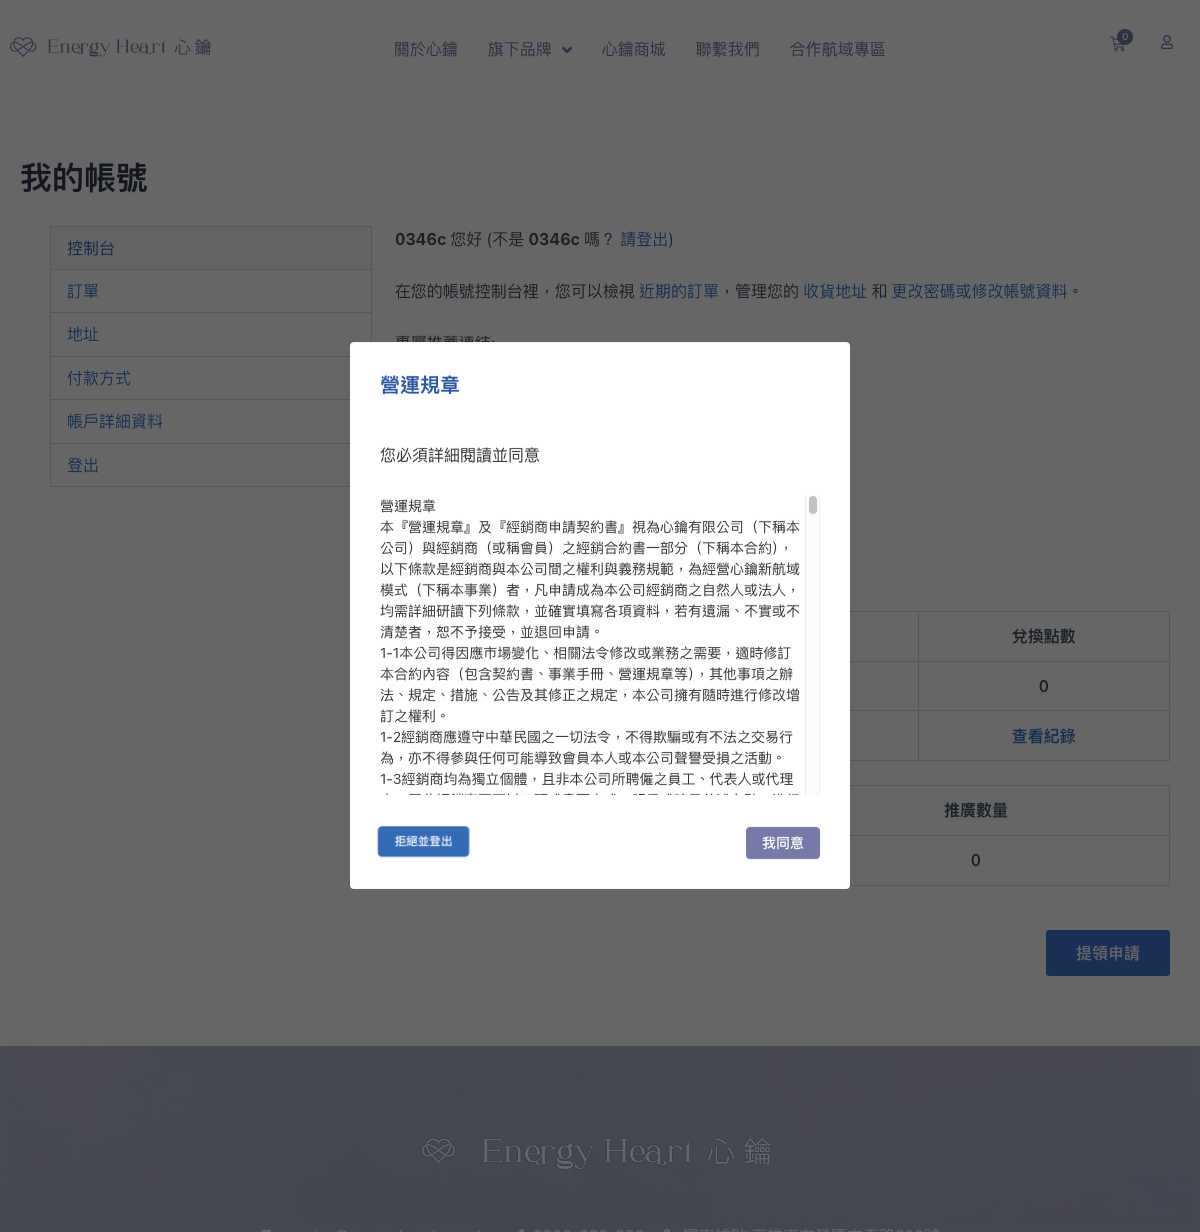
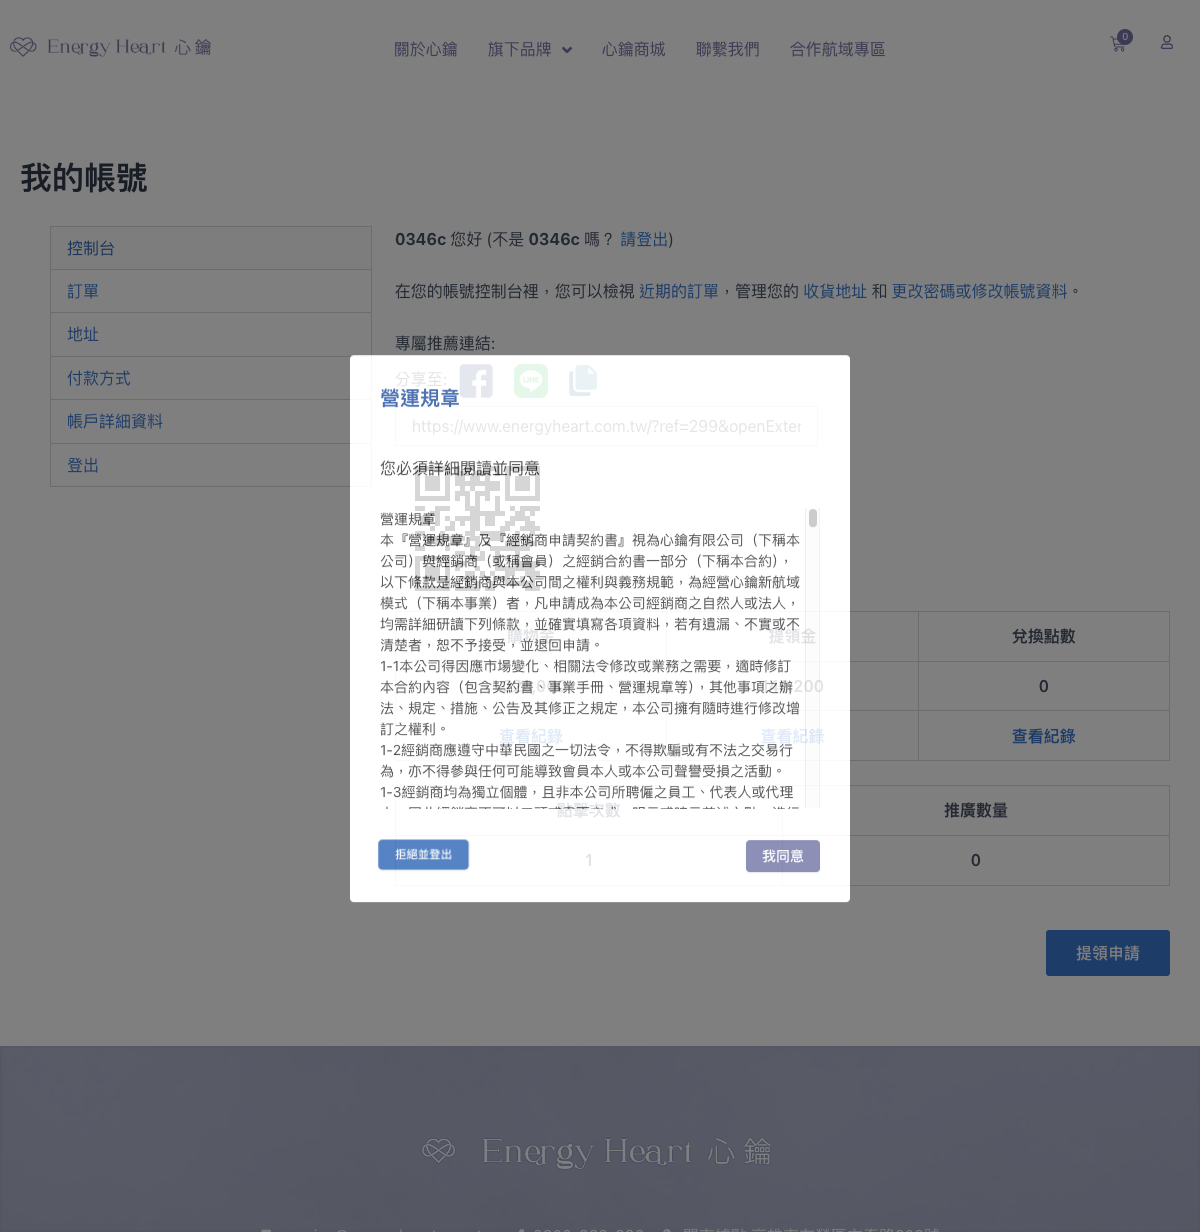
準備Script整合看看

diff --git a/existedMemberPurchase.js b/existedMemberPurchase.js
@@ -85,13 +85,13 @@ const rl = readline.createInterface({
         const tdValue = await driver.findElement(By.xpath('//td[@class="role column-role" and @data-colname="使用者角色"]')).getText();
         console.log(`${user_account}的使用者角色為:`, tdValue);
 
-        // 打開 WordPress 登入頁面
+        // Second Login 使用者帳號輸入登入
         await driver.get('https://www.energyheart.com.tw/wp-login.php');
         console.log('1-已打開登入頁面');
         await takeScreenshot('1-已打開登入頁面.png');
 
         // 等待登入表單元素顯示
-        await driver.wait(until.elementLocated(By.id('user_login')), 10000);
+        await driver.wait(until.elementLocated(By.id('user_login')), 7000);
 
         // 填寫登入表單
         const userAccount = user_account;  // 替換為管理員用戶名
@@ -111,11 +111,38 @@ const rl = readline.createInterface({
         console.log('3-提交登入表單前(about to click)');
         await driver.findElement(By.id('wp-submit')).click();
         await takeScreenshot('ddd.png');
-        console.log('3-已提交登入表單(after click)');
-        await takeScreenshot('eee.png');
+        console.log('3-已提交登入表單(after clicked)');
+
+        // 點擊「接受」按鈕，如果有的話
+        console.log('準備點擊接受同意按鈕');
+        async function clickAcceptButton() {
+            try {
+                await takeScreenshot('點選I-agree後.png');
+                console.log('點選了我同意');
+                await driver.wait(until.elementLocated(By.id('tpul-modal-btn-accept')), 15000); // 增加等待時間為 15 秒
+                let acceptButton = await driver.findElement(By.id('tpul-modal-btn-accept'));
+                console.log('元素可見確保前');
+                // 確保元素可見和可交互
+                await driver.wait(until.elementIsVisible(acceptButton), 8000);
+                await driver.wait(until.elementIsEnabled(acceptButton), 8000);
+                console.log('元素可見確保後+使用javascript點擊繞過交互性問題');
+                // 使用 JavaScript 點擊，有時候可以繞過某些交互性問題
+                await driver.executeScript("arguments[0].click();", acceptButton);
+                console.log('繞過問題了');
+                // 等待營運規章 loading 完成，可以根據具體網頁的 loading 時間調整等待時間
+                await driver.sleep(5000); // 假設等待 5 秒鐘
+                console.log('已點擊接受按鈕');
+                await takeScreenshot('4-點擊後-我的帳號頁面-您好.png');  // 截圖接受cookies
+            } catch (error) {
+                console.error('無法找到或點擊接受按鈕', error);
+                await takeScreenshot('8-accept_button_error.png');  // 截圖找不到接受按鈕或點擊錯誤
+            }
+        }
+
+        // 在進行結帳流程之前，先點擊接受按鈕
+        await clickAcceptButton();
 
         // 等待登入完成，檢查是否進入後台首頁
-        await driver.sleep(5000); // 假設等待 5 秒鐘
         console.log('4-登入後進到的地方(管理員會到後台/一般使用者到my-account');
         await takeScreenshot('4-登入後進到的地方.png');
 
@@ -123,6 +150,9 @@ const rl = readline.createInterface({
         // 進入購物頁面 https://www.energyheart.com.tw/products/
         await driver.get('https://www.energyheart.com.tw/products/');
         console.log('5-1已進入購物頁面');
+        await driver.sleep(5000); // 假設等待 5 秒鐘
+
+
 
         // 點擊「新航域合作專區」
         await driver.findElement(By.xpath('//div[contains(text(), "新航域合作專區")]')).click();
@@ -159,7 +189,7 @@ const rl = readline.createInterface({
         await takeScreenshot('8-1-進入購物車頁面.png');
 
         // 假設這裡需要進行結帳的相關操作，例如選擇配送方式、填寫地址等
-        await driver.sleep(7000);
+        await driver.sleep(9000);
         await takeScreenshot('8-2-讓購物車頁面跳轉後.png');
         console.log('8-2購物車頁面跳轉了');
 
